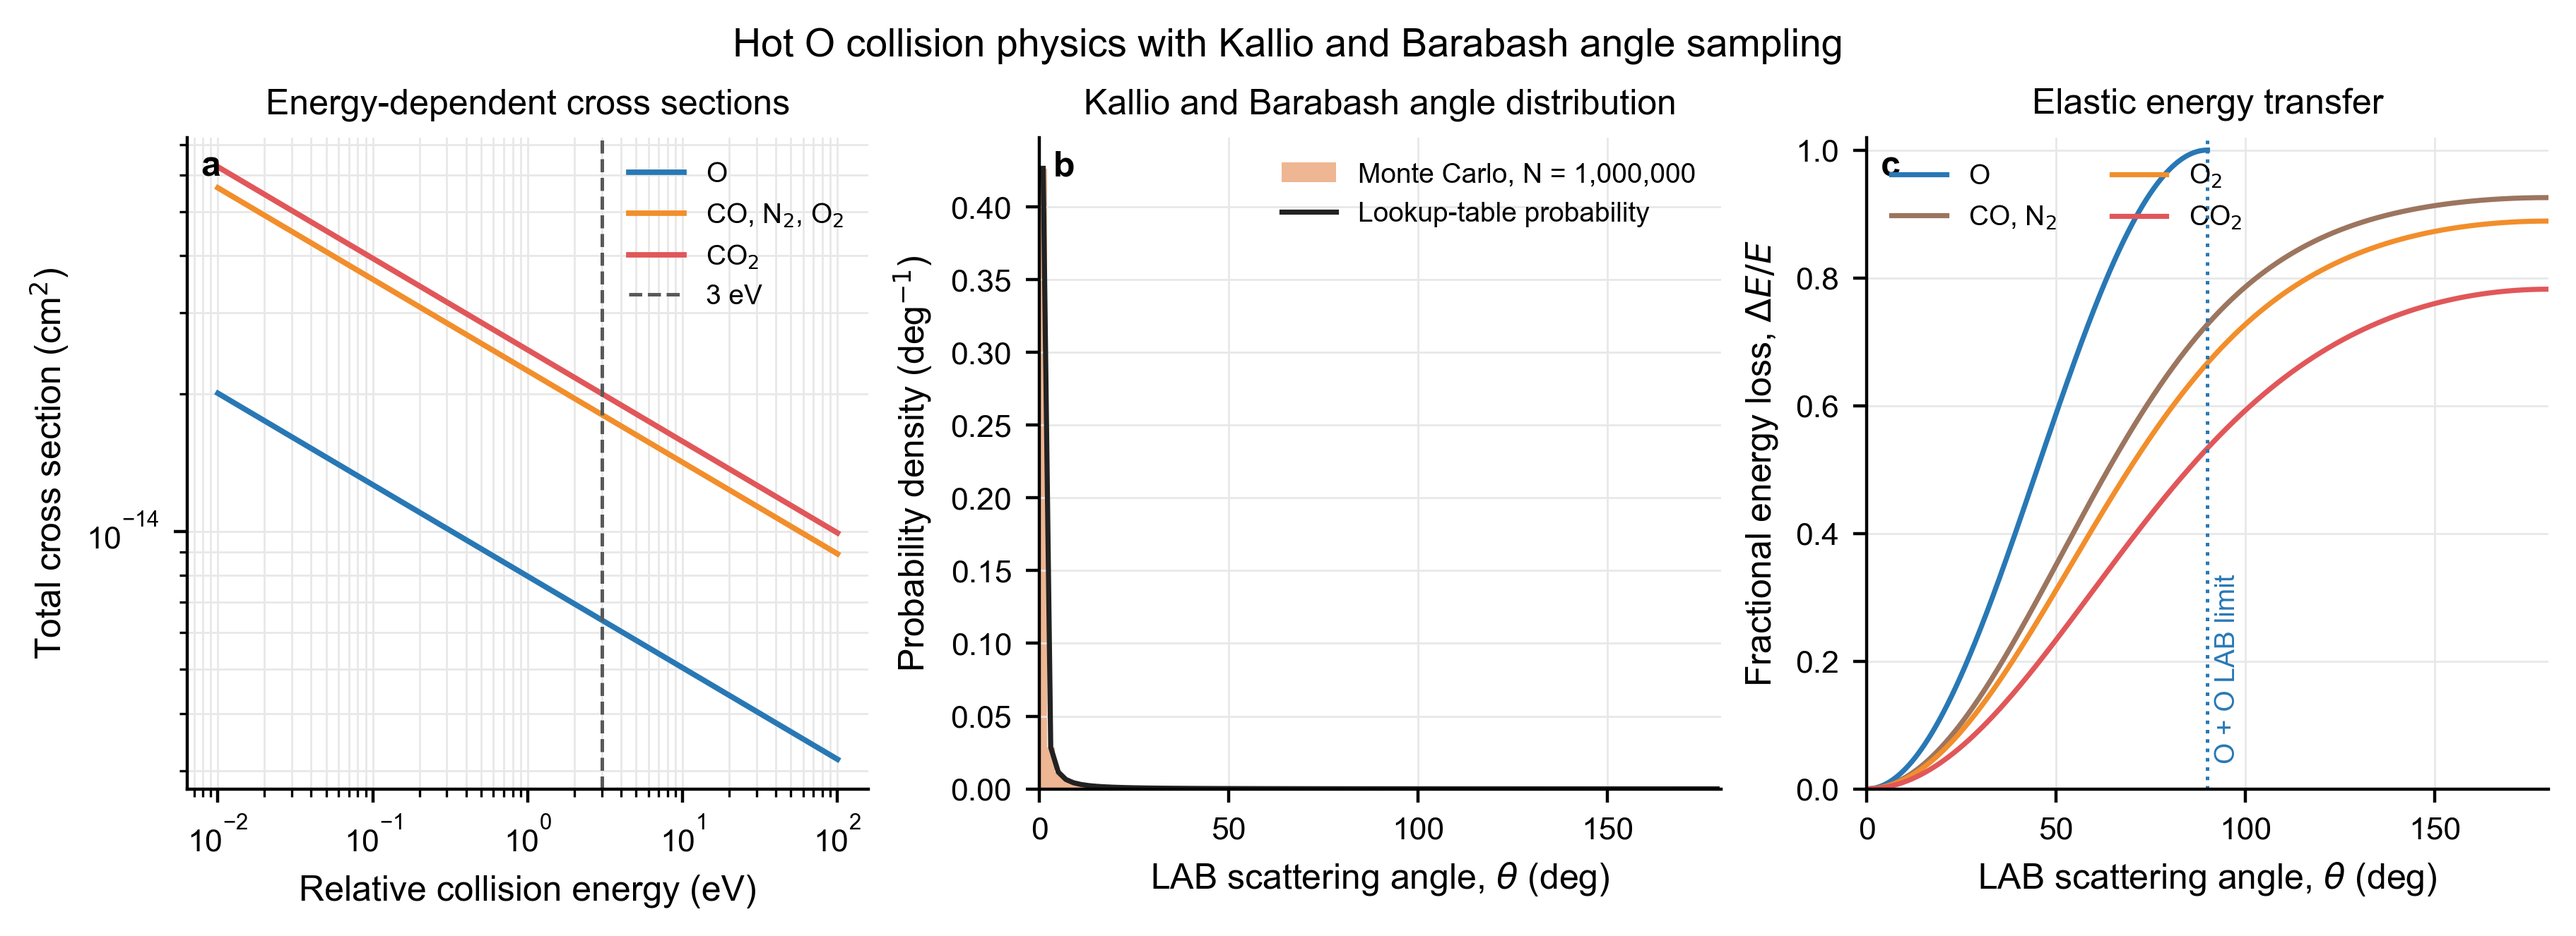
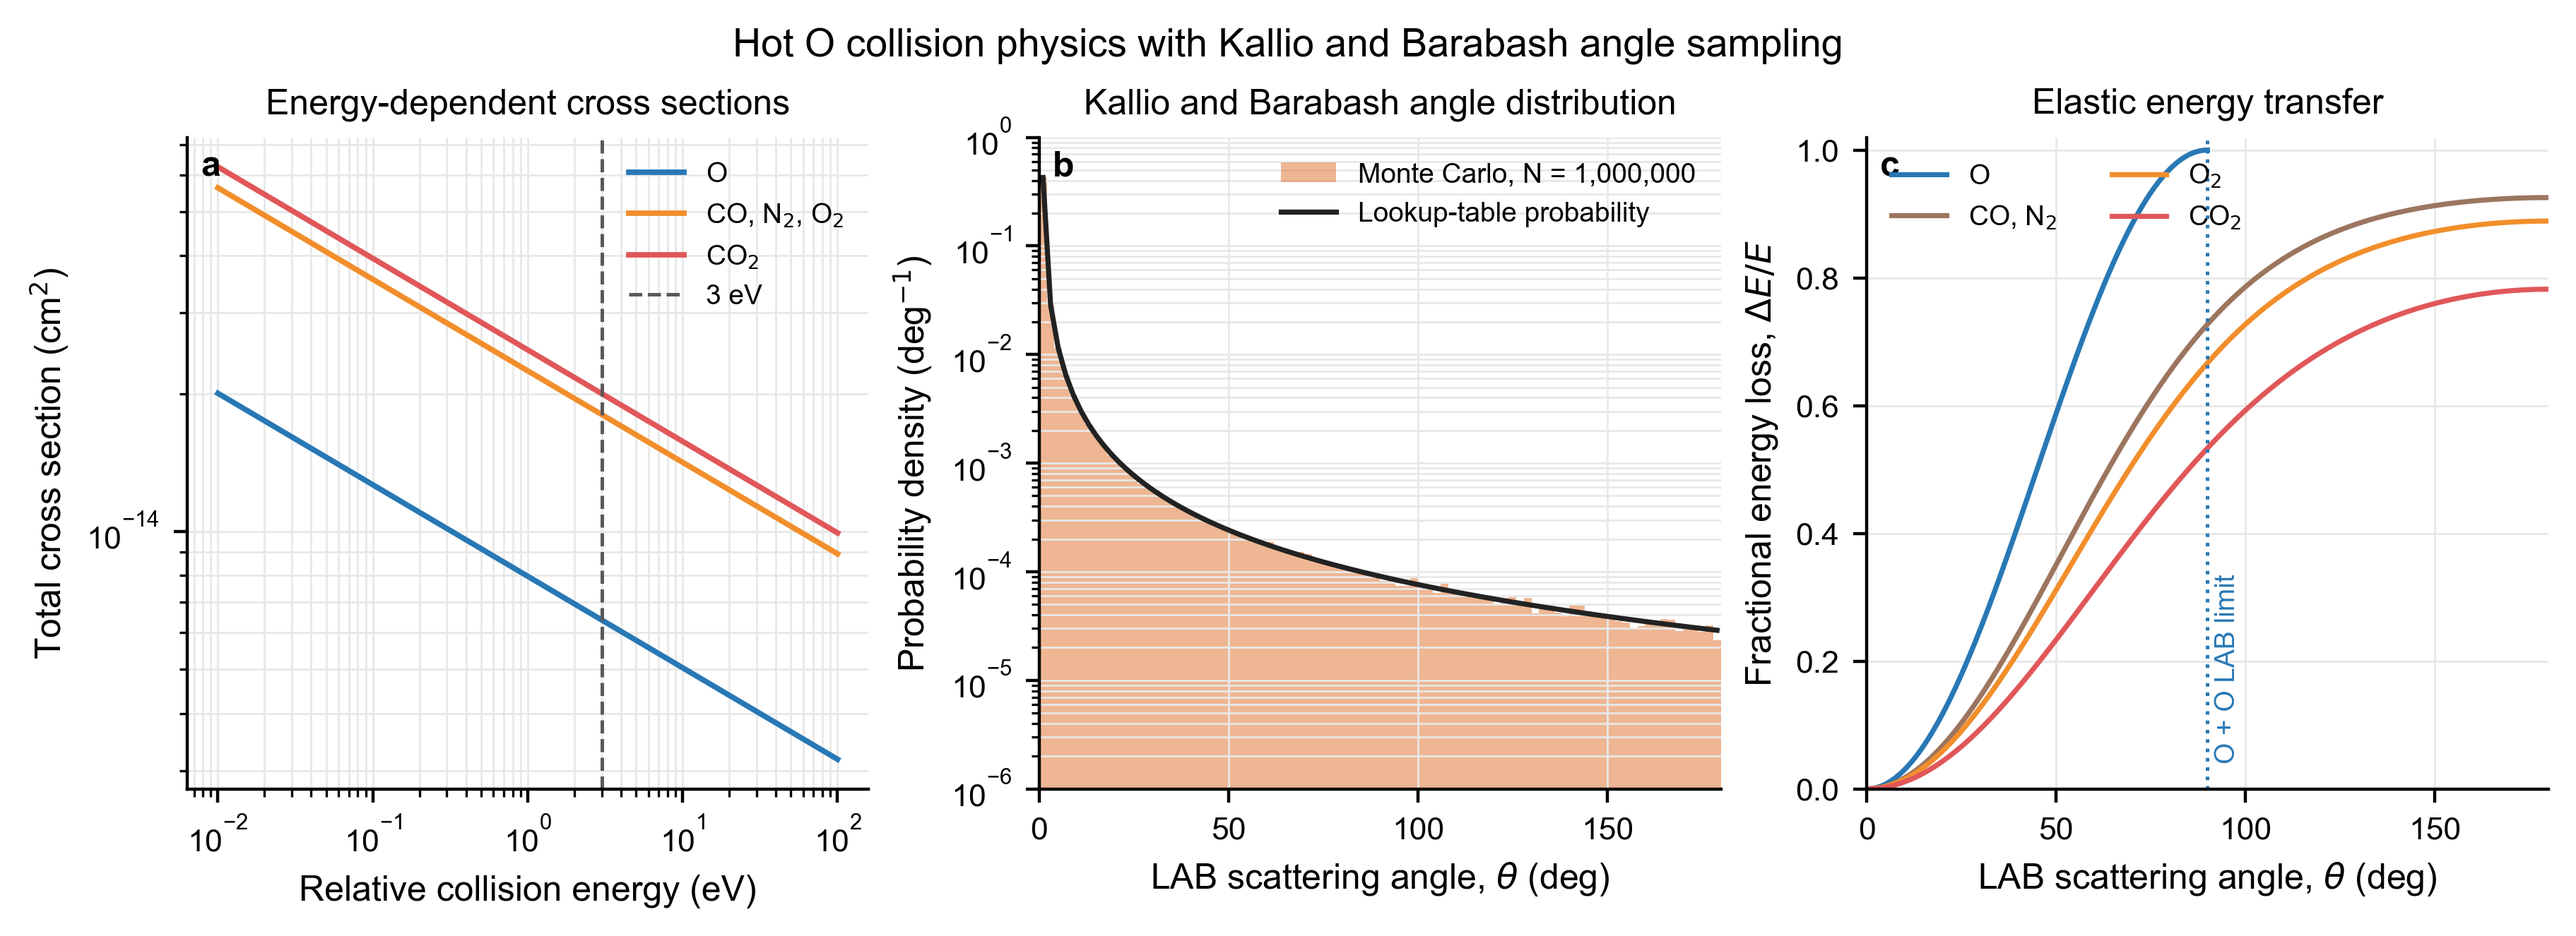
Use log scale for scattering probability

Changed region(s): [[0.3719, 0.2164, 0.6818, 0.8658], [0.3719, 0.1237, 0.4029, 0.1546]]

diff --git a/examples/plot_collision_physics.py b/examples/plot_collision_physics.py
@@ -168,7 +168,8 @@ def make_figure() -> plt.Figure:
     )
     axes[1].set(
         xlim=(0.0, 180.0),
-        ylim=(0.0, None),
+        yscale="log",
+        ylim=(1.0e-6, 1.0),
         xlabel=r"LAB scattering angle, $\theta$ (deg)",
         ylabel=r"Probability density (deg$^{-1}$)",
         title="Kallio and Barabash angle distribution",
